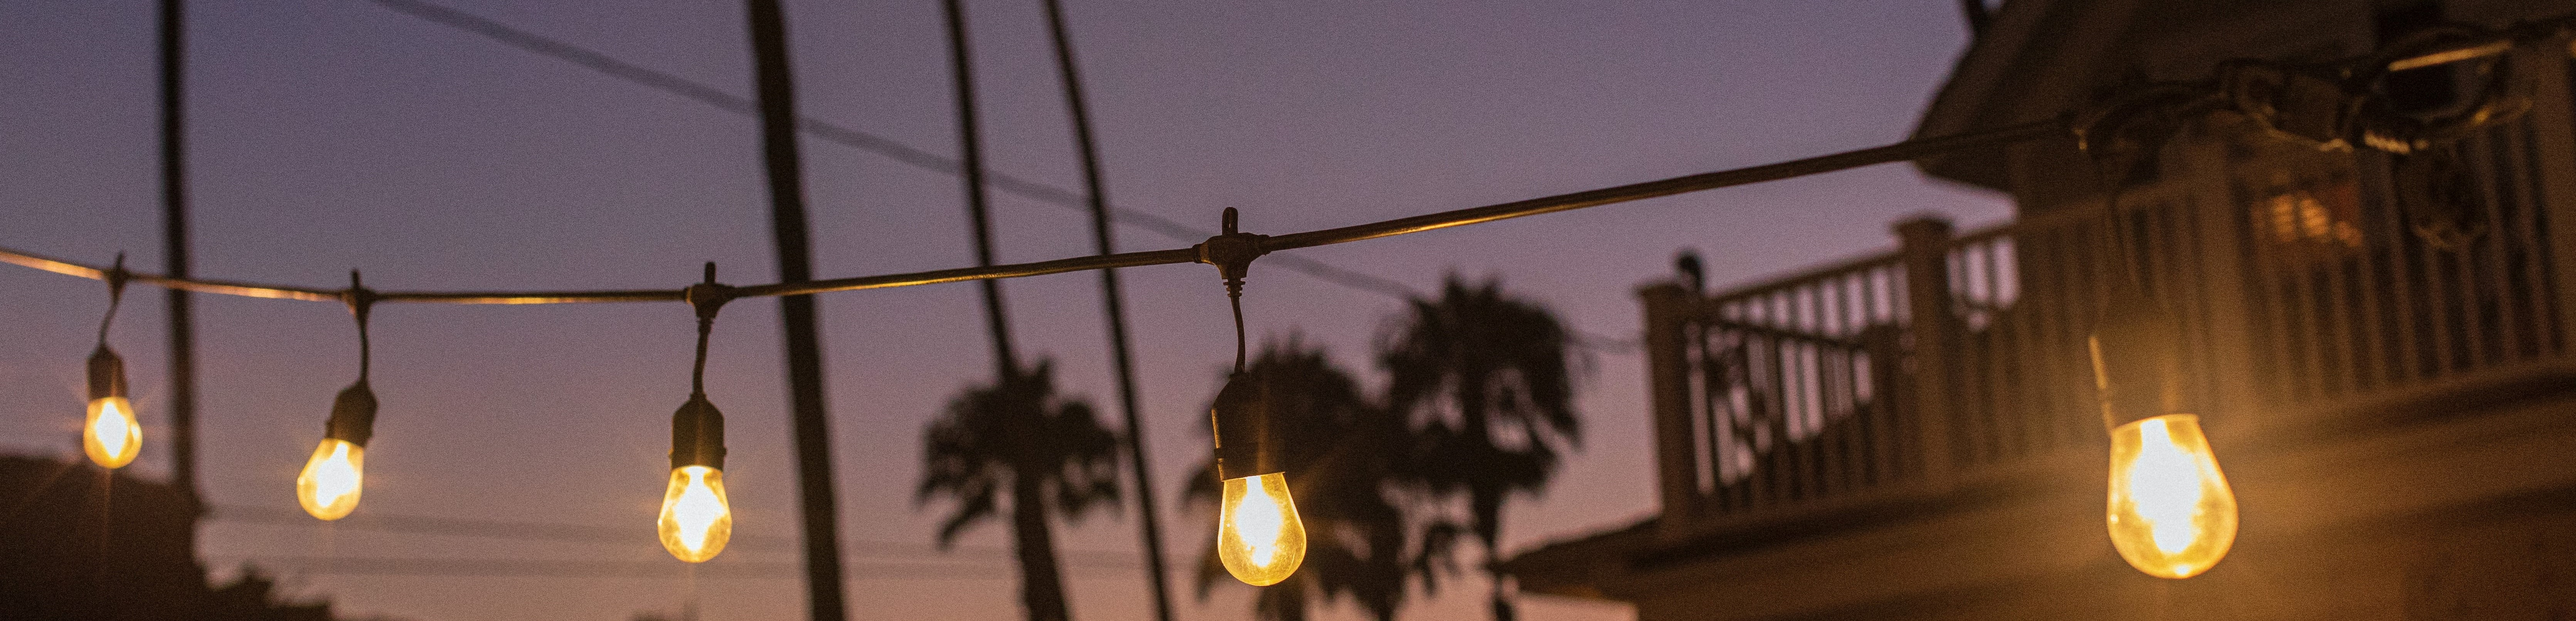
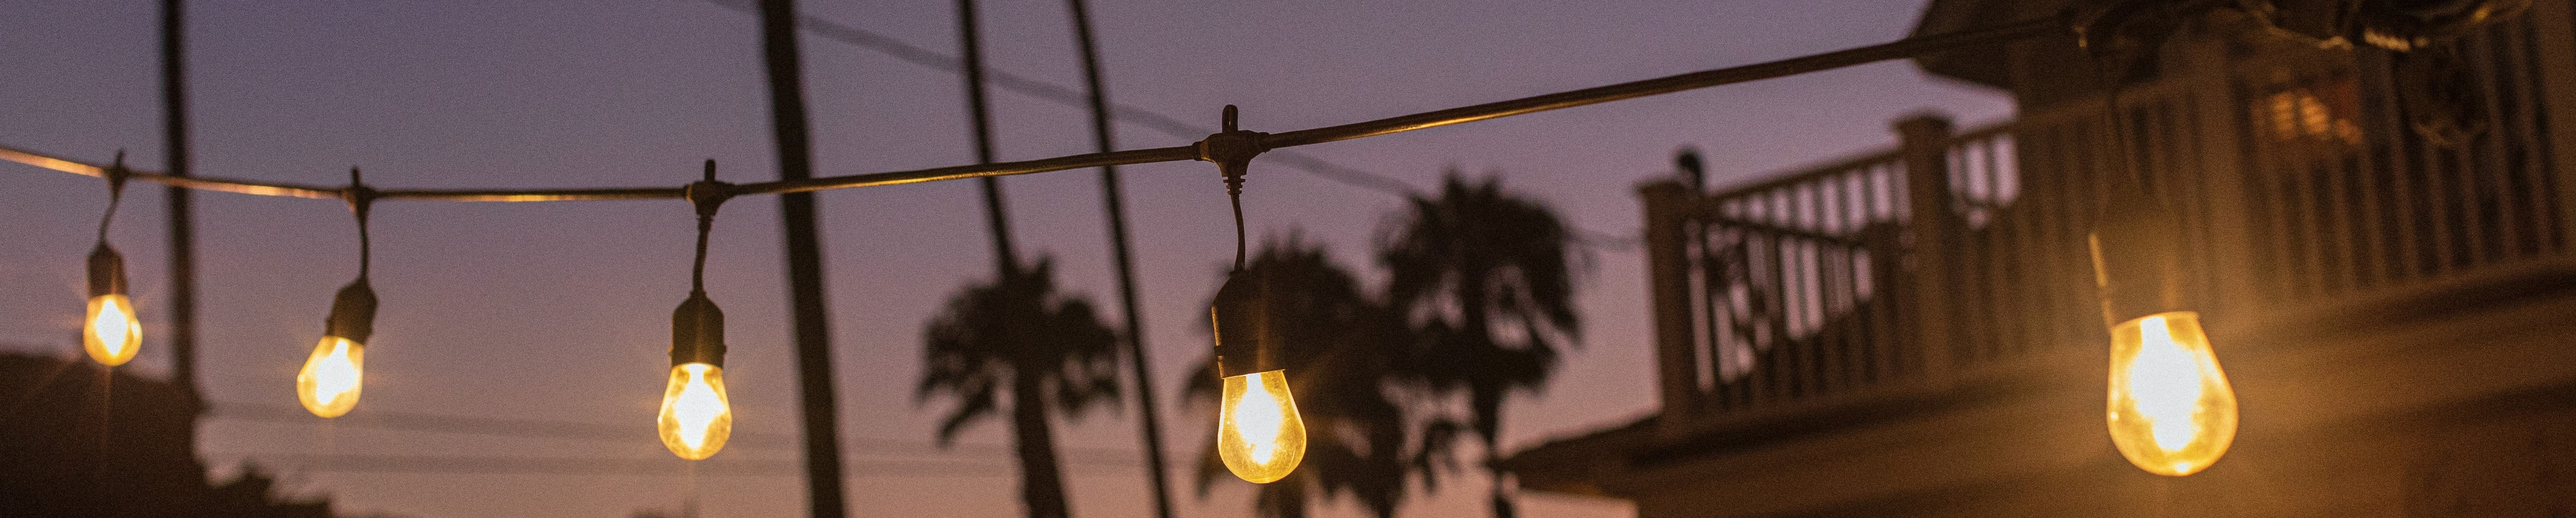
misc changes

diff --git a/index.html b/index.html
@@ -1,9 +1,7 @@
 ---
-# Feel free to add content and custom Front Matter to this file.
-# To modify the layout, see https://jekyllrb.com/docs/themes/#overriding-theme-defaults
-
 layout: home
 author_profile: true
+title: "My Blog"
 header:
-  image: /assets/images/header-image.jpg
+  overlay_image: /assets/images/header-image.jpg
 ---

diff --git a/_sass/minimal-mistakes/_page.scss b/_sass/minimal-mistakes/_page.scss
@@ -173,7 +173,7 @@ body {
     @include clearfix;
     background-size: cover;
     background-repeat: no-repeat;
-    background-position: center;
+    background-position: center bottom;
     -webkit-animation: $intro-transition;
     animation: $intro-transition;
     -webkit-animation-delay: 0.25s;

diff --git a/_pages/about.md b/_pages/about.md
@@ -1,8 +1,9 @@
 ---
+title: "About Me"
 permalink: /about/
-title: "About"
 ---
+![minimalist-pc](/assets/images/minimalist-pc.jpg)
 
-Tempor velit sint sunt ipsum tempor enim ad qui ullamco. Est dolore anim ad velit duis dolore minim sunt aliquip amet commodo labore. Ut eu pariatur aute ea aute excepteur laborum. Esse ea esse excepteur minim mollit qui cillum excepteur ex dolore magna. Labore deserunt fugiat incididunt incididunt sint ea. Consequat dolore aute laboris quis proident quis non et est consectetur ex eiusmod sit culpa.
+Currently finding my way in life.
 
-Cupidatat ea do et in excepteur in. Ad nostrud ut est esse eu duis ea sunt eiusmod. Aliquip tempor veniam sint elit fugiat. Velit incididunt laboris amet incididunt labore dolore irure velit excepteur commodo deserunt laborum. Consectetur eu fugiat veniam veniam Lorem labore magna eiusmod. Ea occaecat reprehenderit pariatur consectetur minim labore ut aliquip.
+That aside, I use part of my free time to do some machine learning projects or other coding projects.
